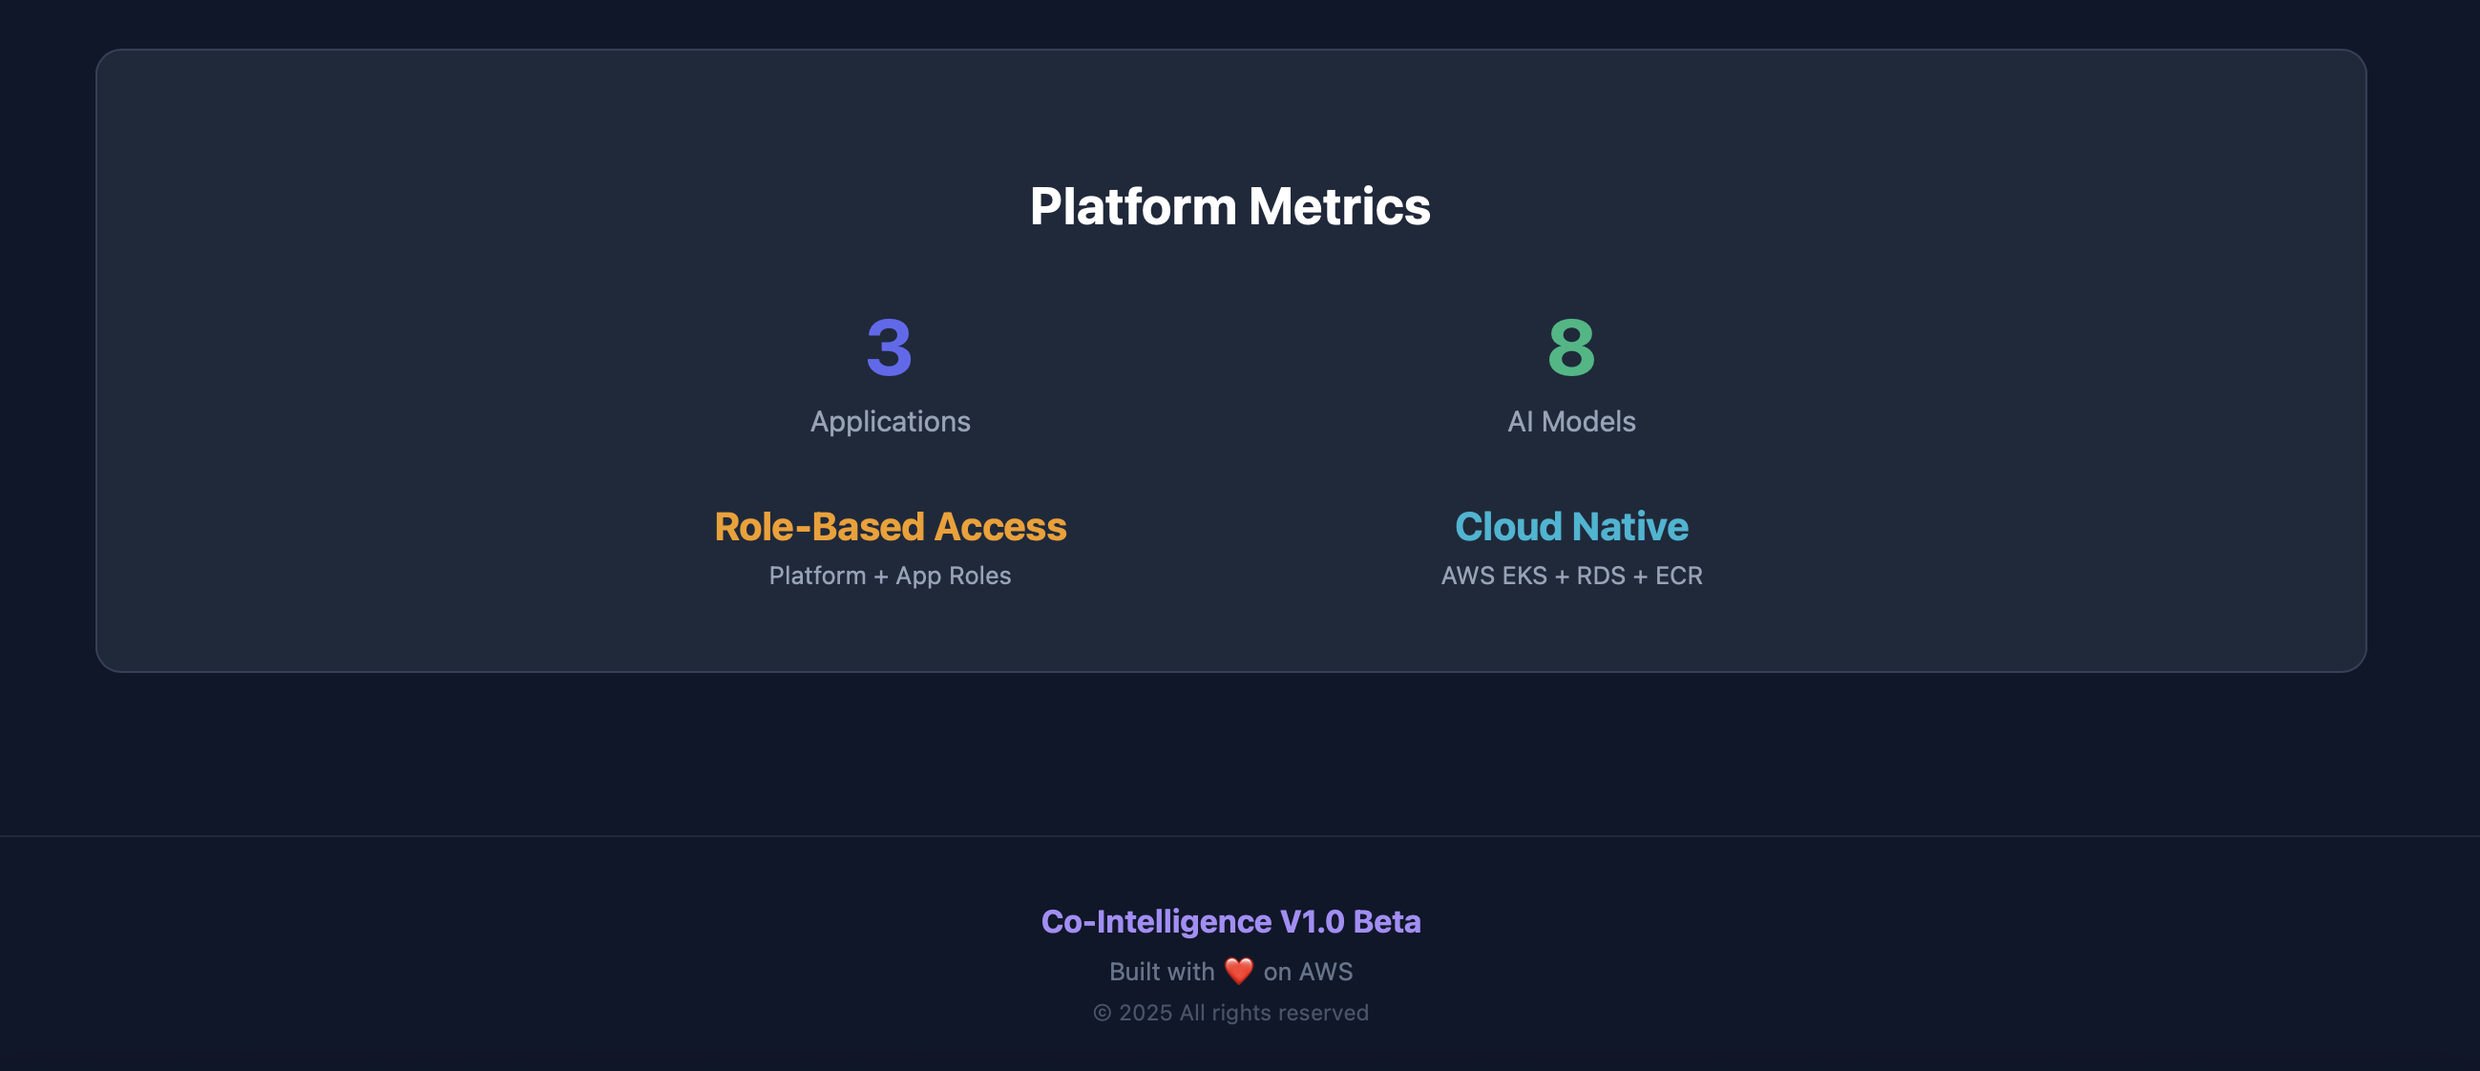
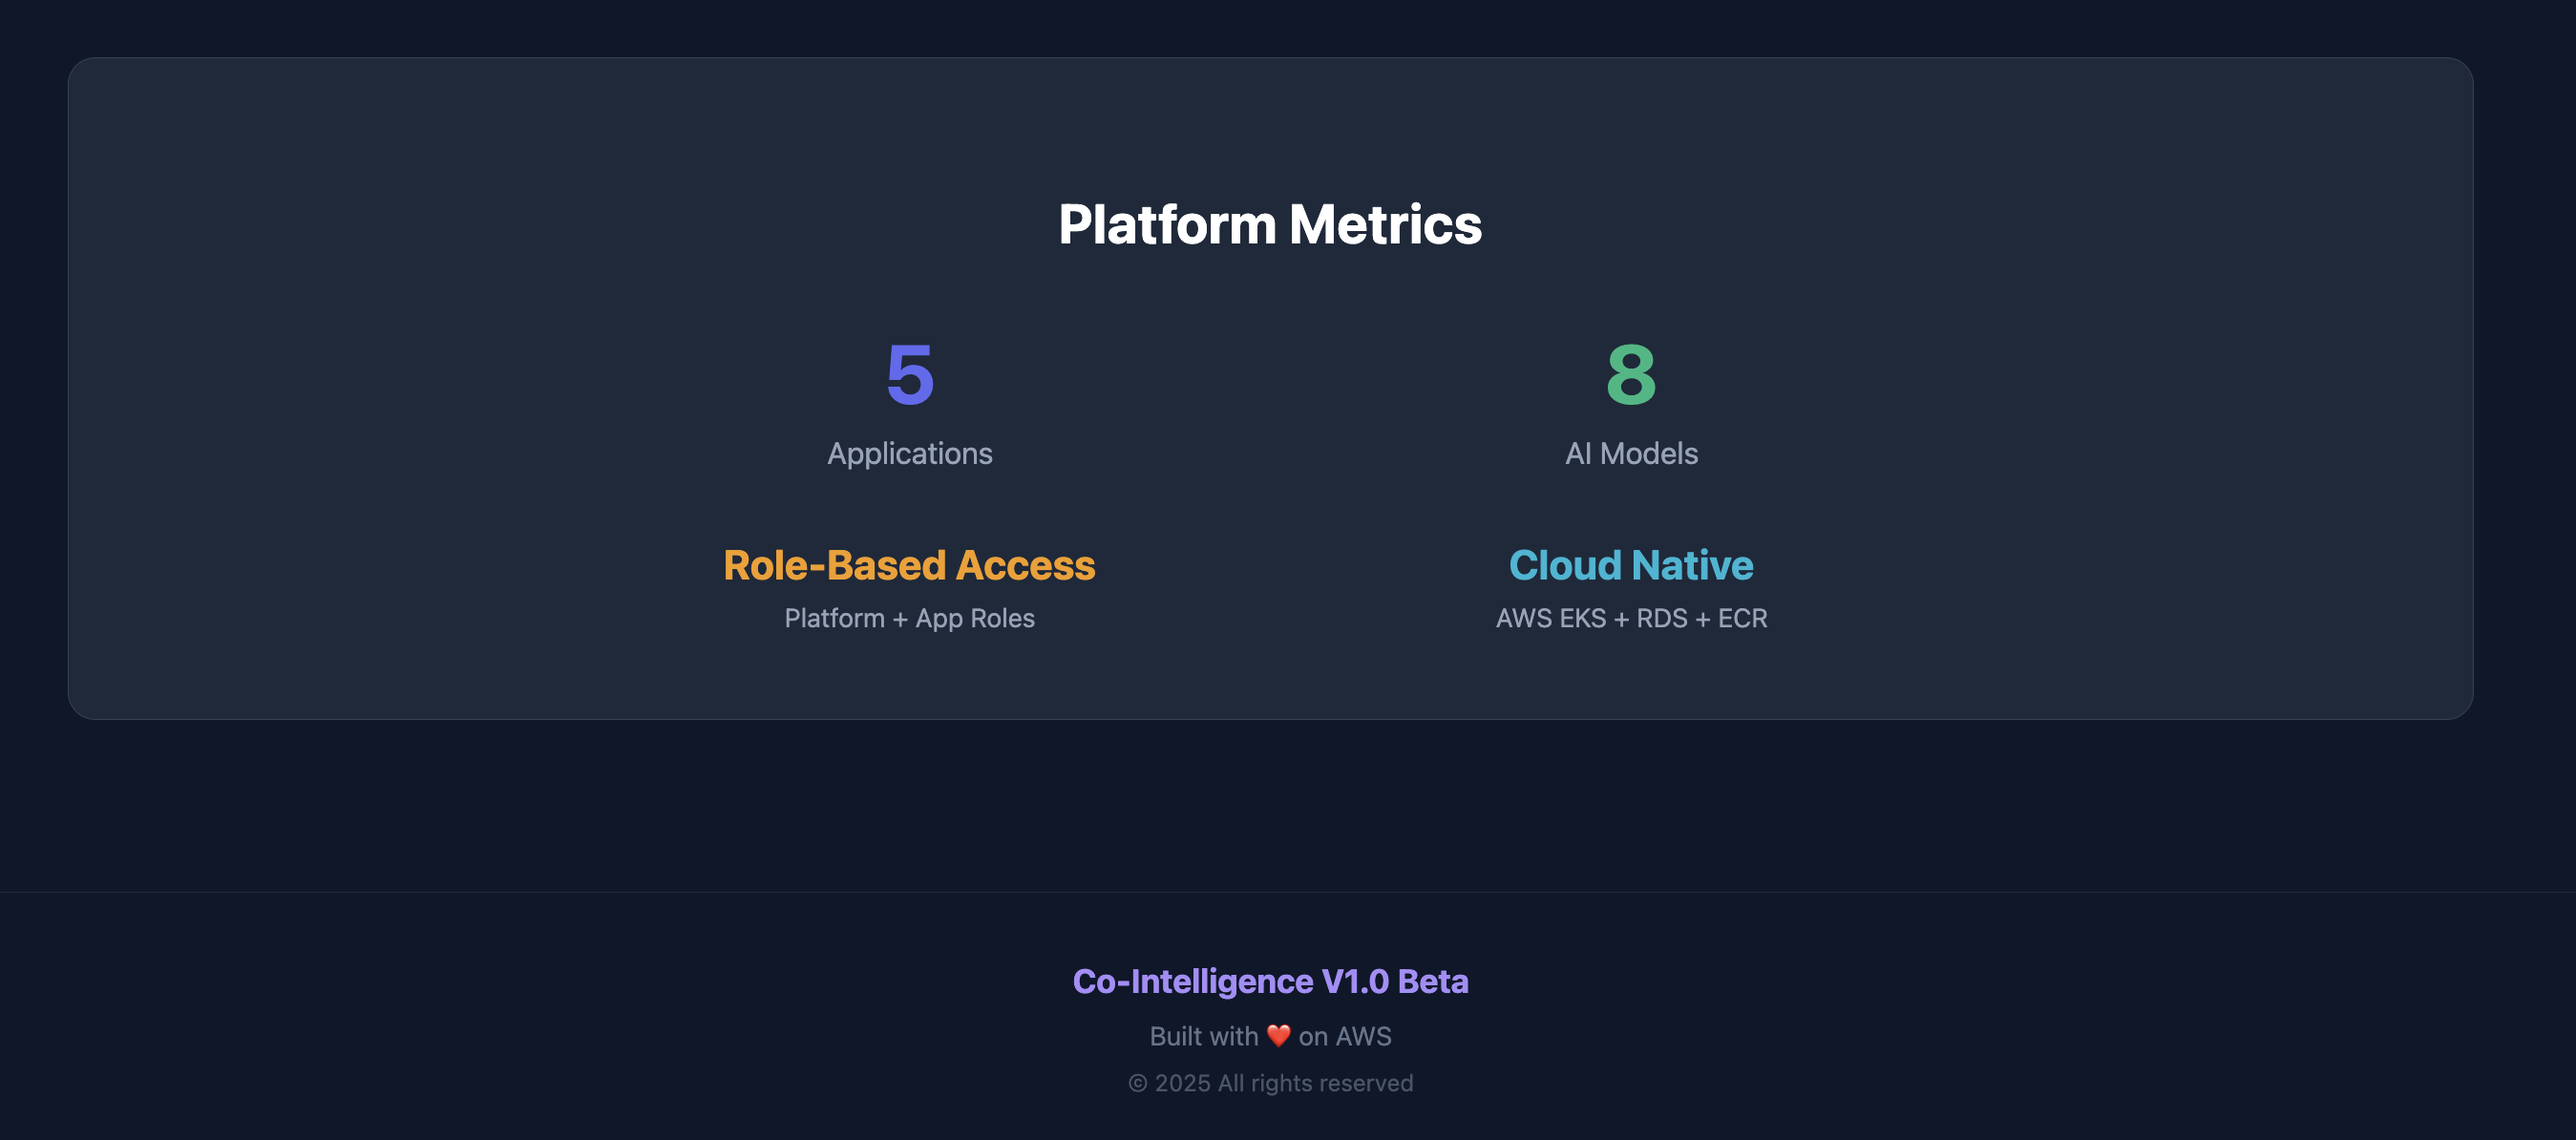
readme.md updated

diff --git a/README.md b/README.md
@@ -48,6 +48,13 @@ A scalable multi-AI platform with FastAPI backend, Next.js frontend, deployed on
 - 📊 **Progress Tracking** - Track learning progress
 - 🤖 **LangGraph Agents** - Multi-agent orchestration for learning
 
+### 5. Agentic Tutor
+- 🎯 **Interactive Learning** - AI tutor for Python, AI, Data Science, and more
+- 📝 **Practice Assessments** - Generate quizzes and coding challenges
+- 🤖 **Multi-Agent System** - Tutor, Assessor, Grader, Hint, and Progress agents
+- 📊 **Progress Tracking** - Track scores, strengths, and improvement areas
+- 📚 **15 Topics** - Across 5 categories with beginner to advanced levels
+
 ## Platform Features
 
 - 🔐 **Secure Authentication** - JWT-based user authentication
@@ -64,6 +71,9 @@ A scalable multi-AI platform with FastAPI backend, Next.js frontend, deployed on
 
 ### Homepage
 ![Homepage](screenshots/1.png)
+
+### Co-Intelligence - AI Applications
+![Co-Intelligence - AI Applications](screenshots/1.1.png)
 
 ### Platform Features
 ![Platform Features](screenshots/2.png)
